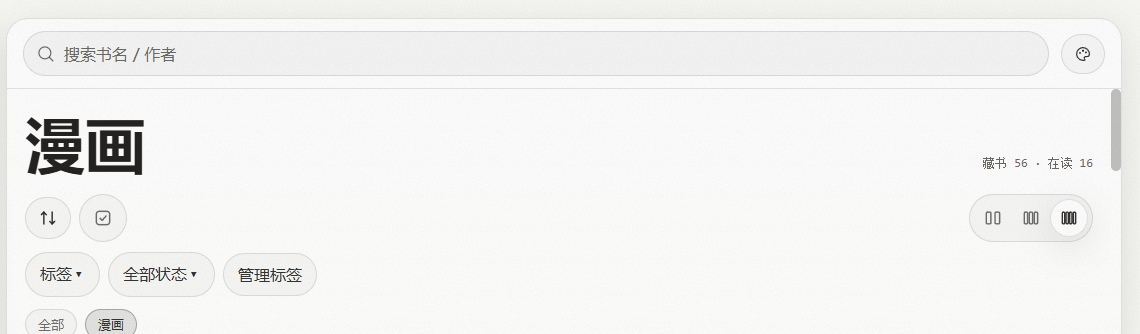
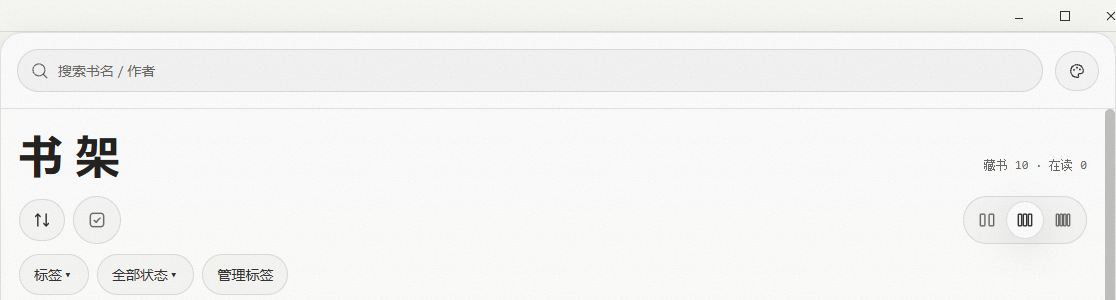
docs: README 刷新到 v3.1.9（beautify-github-readme skill）
阅读顺序改为 简介 → 截图 → 新变化 → 功能 → 安装 → 细节；删除顶部八段版本介绍与五个历史版本章节
（242 → 156 行，历史内容见 docs/CHANGELOG.md）；新增 v3.1.9 新变化一节。
截图：书架刊头用当前界面重拍，新增设置浮窗（浅色 / 墨夜）——均为演示数据；阅读器两张沿用合成测试书旧图。
hero.svg 补无障碍 <title>；更新测试数量与项目结构。审计脚本通过。
cdp-lib：截图裁剪参数补默认 scale。

diff --git a/README.md b/README.md
@@ -2,23 +2,9 @@
 
 ![](./assets/readme/hero.svg)
 
-Windows 桌面全格式阅读器（Tauri + React + Rust）：EPUB / TXT / 漫画文件夹·CBZ / PDF，一个应用读完全部藏书；v3.0 起支持登录 wenku8 账号，把云端轻小说书架整本拉取到本地阅读。书籍、进度、笔记全部存在本机；云书架仅在登录后访问你的个人账号数据。
+Windows 桌面全格式阅读器（Tauri + React + Rust）：EPUB / TXT / 漫画文件夹·CBZ / PDF，一个应用读完全部藏书；支持登录 wenku8 账号，把云端轻小说书架整本拉取到本地阅读。书籍、进度、笔记全部存在本机；云书架仅在登录后访问你的个人账号数据。
 
-v2.5.0 起全新「碳墨刊头」界面：默认**纸墨**主题（米白纸底 × 碳墨单墨），另有**墨夜**与原六主题共 8 套可选，书架、弹窗、正文三处同步换墨。
-
-**v2.6.0**：书库管理大升级（右键菜单 / 一键真删到回收站 / 打开所在位置 / 书库体检）、插图多的 EPUB 性能根治（自动优化副本）、排版细项 + 按书记忆、内置朗读（TTS）。
-
-**v2.7.0**：回收站与收藏页批量操作、搜索与文件夹联动、阅读状态可自定（手动标未读/在读/已读）、大部头打开守卫（自动生成优化副本不再冻结）、书内插图点击放大、媒体面板（EPUB 内嵌音视频点播）、应用内一键更新、导入三模式（复制/移动/引用）、关闭行为记忆、主题跟随系统、启动自动备份数据库、CI 云端构建发布。
-
-**v2.8.0**：继续阅读快捷卡（书架首页一键回到上次在读）、目录当前章高亮+自动滚动、按作者排序、详情页直接删除、布局跳动修复。
-
-**v2.9.0**：侧栏书架树折叠、Shift 范围多选、智能标题清洗（实体/标签/水印/双语一键理清）、鼠标侧键逻辑回溯。
-
-**v3.0.1**：**wenku8 云书架**——登录即同步云端书架，书卡详情（简介/目录/标签）选书架整本拉取入库（封面/标签/简介落库、已入库去重、有新章提示），收藏序/最近更新排序，顶栏搜索过滤；切页闪烁根治（侧栏壳常驻）、底部动作区四钮全局固定、四视图顶栏与上下文行统一、继续阅读改紧凑索引行（可开关）。
-
-**v3.1**：**应用内更新**（签名清单 / 下载进度条 / 一键升级）、安装包 290MB → 约 6MB、无边框自定义标题栏与全局分区右键菜单、目录卷章分层折叠、wenku8 地址与代理设置。
-
-**v3.1.9**：**设置改为居中浮窗**（左侧分类 + 右侧配置，八个分区即改即存，新增 EPUB / 漫画 / PDF 默认阅读设置）；书库体检支持**勾选批量处理**（只确认一次）并显示重复导入各份的位置；修复同一本书再次打开时章内插图丢失、窗口右缘多出的一道底色。
+「碳墨刊头」界面：默认**纸墨**主题（米白纸底 × 碳墨单墨），另有**墨夜**与原六主题共 8 套可选，书架、弹窗、正文三处同步换墨。
 
 ## 界面
 
@@ -26,95 +12,20 @@ v2.5.0 起全新「碳墨刊头」界面：默认**纸墨**主题（米白纸底
 | --- | --- |
 | ![](./docs/design/shots/readme/shelf-masthead.png) | ![](./docs/design/shots/readme/reader-epub-ink.png) |
 
-| 阅读设置 · 抽屉 | 墨夜主题 |
+| 设置 · 居中浮窗 | 墨夜主题 |
 | --- | --- |
-| ![](./docs/design/shots/readme/reader-epub-settings.png) | ![](./docs/design/shots/readme/reader-epub-inkdark.png) |
+| ![](./docs/design/shots/readme/settings-dialog.png) | ![](./docs/design/shots/readme/settings-dialog-inkdark.png) |
 
-> 截图为运行中的真实应用（为保护演示书库隐私，正文使用合成测试书）。
+> 截图为运行中的真实应用：书架与设置使用演示数据，正文使用合成测试书。
 
-## v3.1 更新
+## v3.1.9 新变化
 
-**v3.1.9 · 设置浮窗与书库体检**
-- **设置浮窗**：侧栏「设置」打开居中浮窗，左侧分区目录、右侧配置面板，点遮罩或按 Esc 关闭，底下的书架保持原状。八个分区：外观 / 阅读 / 书库 / 云书架 / 网络与更新 / 快捷键 / 漫画增强 / 关于，更改即时保存
-- **默认阅读设置**：EPUB 的阅读模式、翻页动画、字体与排版；漫画与 PDF 的阅读模式、适配、单双页、阅读方向等，均可在此设为新书默认（阅读页里按书调过的设置仍优先）
-- **书库体检**：弹窗放大；失链与重复导入可逐条勾选或「全选」，在底栏一次处理、**只确认一次**（失链 = 从电脑删除，重复项 = 移入书库回收站）；重复导入按「份」列出位置、所在书架、大小与导入时间，方便决定保留哪一份
-- 修复：同一本书退出后再打开，章内插图与内嵌字体丢失（自 v2.9.0 起）
-- 修复：窗口右缘多出的一道底色；圆角弹窗的滚动条不再压进圆角
+- **设置改为居中浮窗**：左侧分类、右侧配置，八个分区，改动即时保存；点遮罩或按 Esc 关闭
+- **默认阅读设置**：EPUB、漫画、PDF 的阅读偏好可以在这里设为新书默认；在阅读页里按书单独调过的仍然优先
+- **书库体检可批量处理**：失链与重复导入逐条勾选或全选，一次处理只确认一次；重复导入会列出每一份所在的位置
+- **修复**：同一本书退出后再打开时章内插图丢失；窗口右缘多出的一道底色
 
-**v3.1.0 · 更新系统与桌面纯化**
-- **应用内更新**：签名清单校验、下载进度条、一键安装并重启；安装包 290MB → 约 6MB
-- **网络设置**：wenku8 地址三选（自动 / 中继 / 直连）与连通探测、代理配置
-- **桌面纯化**：无边框自定义标题栏、全局分区右键菜单、文字防误选、界面字体统一
-- **阅读**：目录卷章分层折叠、侧栏三段布局、正文边距自适应
-- v3.1.8：修复安装版正文字体 / 排版 / 插图显示异常
-
-## v3.0.1 更新
-
-**wenku8 云书架**
-- **登录即同步**：设置侧「云书架」登录 wenku8 账号（账密仅存本机），云端书架一键投射到桌面；上下文行显示账号与同步时间，可退出 / 切换
-- **书卡详情**：完整书名 / 作者 / 状态 / 简介全文 / 卷章目录 / 标签，一键直开网页版
-- **拉取到书库**：详情内选目标书架（下拉内可直接**新建书架**）→ 整本并发拉取（逐章进度）→ 自动入库；封面、简介、标签一并落库（标签直接进本地标签系统，可筛选）
-- **去重与更新**：已入库显示徽标一键打开；连载书自动比对，有新章节显示「有新章」
-- **排序 / 密度 / 搜索**：收藏顺序 / 最近更新 / 书名排序；密度与书架同一设置联动；顶栏搜索框即时过滤
-
-**界面与体验**
-- 切换书架 / 收藏 / 云书架 / 回收站时侧栏与底部按钮**零重挂载**（闪烁根治）
-- 侧栏底部「刷新 / 导入漫画 / 导入图书 / 设置」四钮全局常驻，导入自动落当前书架
-- 四视图顶栏统一（标题同字号、搜索框恒定位）；侧栏上下文行同高各显其用
-- 继续阅读改为紧凑索引行，设置中可开关
-- 修复：TXT 导入封面丢失、epub 内嵌标题与书架不同源、设置弹窗滚动异常等
-
-## v2.7.0 更新
-
-**书库管理**
-- **回收站批量**：多选/全选/批量恢复/彻底删除/从电脑删除，一次确认处理 N 本；键盘 Delete 直达
-- **收藏页全面升级**：与书架同款书卡（⋯ 菜单/右键/拖动归架/密度/进度墨线）、批量取消收藏与移动、摘录右键（复制/定位/删除）
-- **搜索与文件夹联动**（资源管理器式）：文件夹按命中过滤显示"N 命中"角标；命中的书显示所属书架路径
-- 置顶书浮到最顶；文件夹独立排序；嵌套书架显示含子孙总数；导入三模式（**复制/移动/原地引用**）
-- 关闭行为可记忆；数据库启动自动备份（保留 3 份）
-
-**阅读器**
-- **大部头守卫**：超大书自动生成优化副本（剥离内嵌音视频 + 重编码），显示进度不再冻结
-- **书内插图点击放大**：全屏缩放/平移；**媒体面板**：EPUB 内嵌音视频逐条点播
-- **阅读状态自定**：菜单直接标 未读/在读/已读（手动优先）；计时失焦即停（最小化不计）
-- **「设为我的默认」**：当前排版一键存为新书默认；「本书恢复默认」随时回退
-- 主题跟随系统；抽屉记忆；修复分页模式内嵌图不加载的回归
-
-**应用维护**
-- **应用内更新**：设置→关于一键检查下载安装（自动尝试本地代理）；启动静默检查（红点提醒）
-- CI 云端构建：tag 推送自动出安装包挂 Release
-
-## v2.6.0 更新
-
-**书库管理**
-- **右键书卡 = ⋯ 同款菜单**；菜单里直接**「从电脑删除」**——源文件/漫画源文件夹真实移入 Windows 回收站（系统回收站可找回）
-- **打开所在位置**：一键在资源管理器中定位源文件/源目录
-- **书库体检**：一键查重复导入、源目录失链（可直接重新链接）、悬空封面
-- 书架滚动位置记忆、收藏页标签记忆、排序与过滤状态持久化
-
-**插图多的 EPUB 性能根治**
-- 导入时自动生成"阅读优化副本"：大插图缩到 1520px、注入宽高（翻页不跳版）、懒加载；原书保留，存量书后台自动补生成
-
-**阅读器**
-- 排版细项：字重 / 字间距 / 段间距 / 首行缩进 / 页边距 / 两端对齐（默认中性，存量书观感不变）
-- 排版按书记住（epuset 书级覆盖）
-- 内置朗读（系统语音，语速可调，翻章自停）
-- 全局背景纱浓度可调；修复 v2.5.0 自定义字体未真正注入正文的隐性缺陷
-
-## v2.5.0 更新
-
-**性能（实测对比 v2.1.0，同机同库）**
-
-- 书架滚动卡顿帧 61 本采样：11 → **0**（最长掉帧 394ms → 18ms）
-- 条漫连续滚动 p95 帧间隔 24.3ms → **6.2ms**；漫画翻页最长掉帧 54ms → **12ms**
-- EPUB 拖字号整章重排 0.3s → **0.1s**，拖动过程零白闪
-- 封面全面走 480px 缩略档；漫画页列表/压缩包句柄缓存、按显示尺寸降采样；全部后端命令并发化；SQLite WAL + 索引
-- EPUB 开书首显直达进度位置；厚书进度条结果持久化（同字体字号二次开书秒就绪）；自定义字体真正注入正文
-- 窗口记住大小与位置
-
-**新功能**：划选一键复制；漫画方向/双页/适配/条漫宽度/双页偏移**按书记住**；阅读时长统计（书卡显示「已读 X 小时」）；标注与收藏摘录导出 Markdown；书库搜索跨书架全库命中；字号快捷键 Ctrl+= / - / 0；页面面板定位当前页 + 页码直达；高亮原文与笔记分列（存量自动迁移）。
-
-**界面「碳墨刊头」**：书架刊头大字排印 + 等宽统计列；工具行图标化（排序收纳下拉、密度三格分段）；书卡封面墨线描边、在读进度为封面下缘 2px 墨线；印刷感细节（纸底噪点、尾注线、骨架 shimmer）；阅读器顶/底栏纸墨毛玻璃；720px 起三档自适应断点。
+更早的版本记录见[更新日志](./docs/CHANGELOG.md)，各版本的发布说明见 [Releases](../../releases)。
 
 ## 功能总览
 
@@ -157,6 +68,7 @@ v2.5.0 起全新「碳墨刊头」界面：默认**纸墨**主题（米白纸底
 ### 窗口与托盘
 - 窗口记住大小与位置；点 ✕ 弹三选：最小化到系统托盘 / 退出 / 取消；托盘左键恢复，右键菜单“显示主窗口 / 退出”
 - 设置浮窗：八个分区即改即存（外观 / 阅读 / 书库 / 云书架 / 网络与更新 / 快捷键 / 漫画增强 / 关于）【v3.1.9】
+- 应用内更新：发现新版本后一键下载、安装并重启；启动时静默检查，发现新版在设置入口提示【v3.1.0】
 
 ## 快捷键
 
@@ -202,7 +114,7 @@ npm run tauri build  # 产出 NSIS 安装包
 CARGO_TARGET_DIR=D:/cargo-target/bookreading npm run tauri build
 ```
 
-- 跑测试：`npm test`（前端 Vitest，37 文件 259 用例）与 `cd src-tauri && cargo test`（后端 147 用例）。
+- 跑测试：`npm test`（前端 Vitest，54 文件 375 用例）与 `cd src-tauri && cargo test`（后端）。
 
 ## 项目结构
 
@@ -212,12 +124,14 @@ bookreading/
 │   ├── app/            #   路由
 │   ├── pages/          #   书库 / 收藏 / 云书架 / 阅读器页面
 │   ├── library/        #   书架、标签、导入、封面、密度
+│   ├── settings/       #   设置浮窗的分区与通用控件
 │   ├── reader/         #   epub / image / pdf 三类阅读器与设置
 │   ├── tauri/          #   invoke 封装与前端日志
-│   └── ui/             #   AppShell、主题、图标、对话框、设置
+│   └── ui/             #   AppShell、主题、图标、对话框、设置浮窗
 ├── src-tauri/          # Rust 后端（SQLite 书库、导入转换、缩略图管线、导出）
 │   └── .cargo/         #   rsproxy 镜像配置
-└── docs/               # 设计规范、批次记录、性能基线与验收证据
+├── tools/cdp/          # 零依赖 CDP 验证脚本（无头浏览器布局 / 视觉验证）
+└── docs/               # 设计规范、开发计划、更新日志与验收证据
 ```
 
 ## 已知限制

diff --git a/docs/开发计划-v3.2.md b/docs/开发计划-v3.2.md
@@ -129,11 +129,11 @@
 **实施注意**：判别介质用 `format === "images"` 取反（小说的 `format` 为空）；试算脚本 `tools/cdp/dryrun-organize.page.js` 里的清洗 / 归并 / 系列键逻辑就是规则引擎的原型，实现时搬到 `src/` 下并补单测。
 
 **接续清单（新对话从这儿开始，按序）**
-1. 等 v3.1.9 安装版验收反馈
+1. ~~等 v3.1.9 安装版验收~~ ✓ 用户已验收通过（2026-11-25）
 2. **V-8 实施**（规则已确认）：规则引擎（纯函数 + 单测）→ 预览弹窗（分页、原值 → 新值、可撤销）→ 两处入口 → 导入时的自动识别（同引擎，非强制）
 3. **翻页动画收尾**（要动动画代码，开工前跟用户确认）：修 V-1 三处根因 → 逐帧截图验收 → 打开 `TURN_FX_ENABLED`
-4. README 用 `beautify-github-readme` skill 更新，**不得泄露隐私**（合成书截图 / 裁掉侧栏，不出现真实书名与个人书架名）
-5. 应用发布者名称：`bundle.publisher` 改为 `qcb`（用户称呼；显示在系统「应用和功能」与安装器）。identifier `com.root.bookreading` **不要改**——它决定 appdata 目录，改了老用户的书库会"消失"
+4. README 已用 `beautify-github-readme` skill 更新（2026-11-25，242 → 156 行；书架与设置截图为演示数据）。遗留：阅读器两张截图仍是合成测试书的旧图（v3.1 前的界面样式），下次有合成测试书在库里时用当前界面重拍
+5. 应用发布者名称：`bundle.publisher` 改为 `qcb`（用户称呼；显示在系统「应用和功能」与安装器）。identifier `com.root.bookreading` **不要改**——它决定 appdata 目录，改了老用户的书库会"消失"。**随下一个版本生效**（3.1.9 已构建完，用户确认放到下一版）
 6. 其后按阶段二顺序：开场动画 + V-13 + V-12 → V-7 → V-6 → V-5 → V-9
 7. 小项：`windows-installers` workflow 每次 push main 都失败（与发布无关）；minify 仍禁用未复验
 
